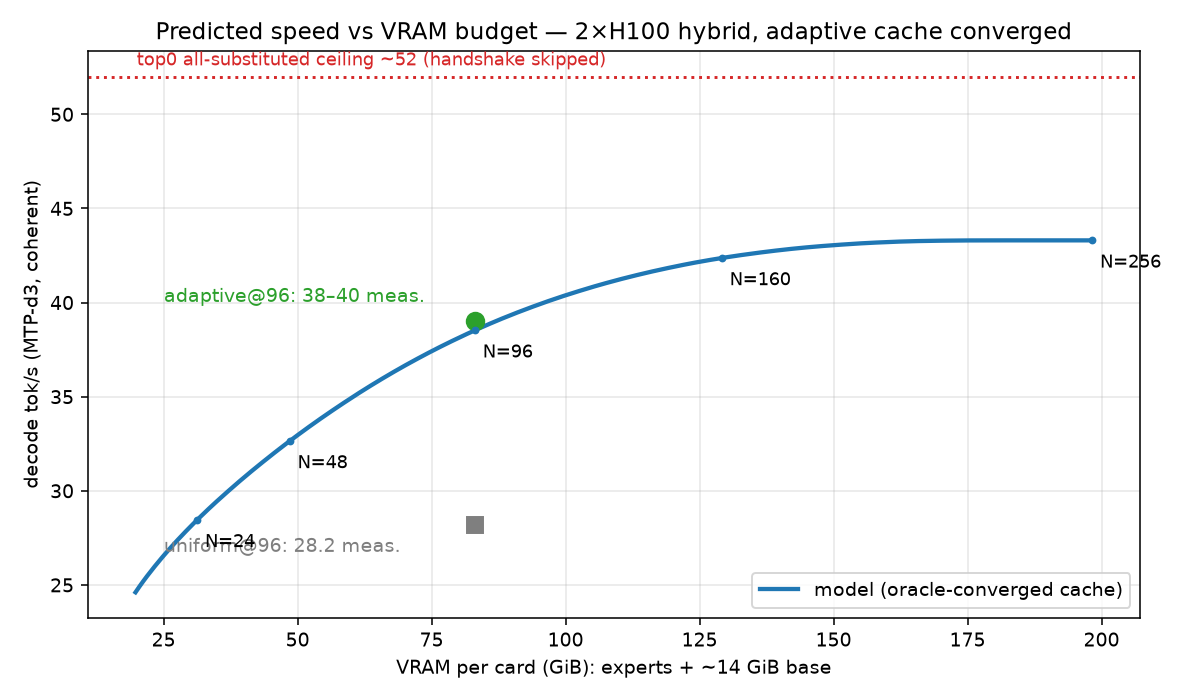
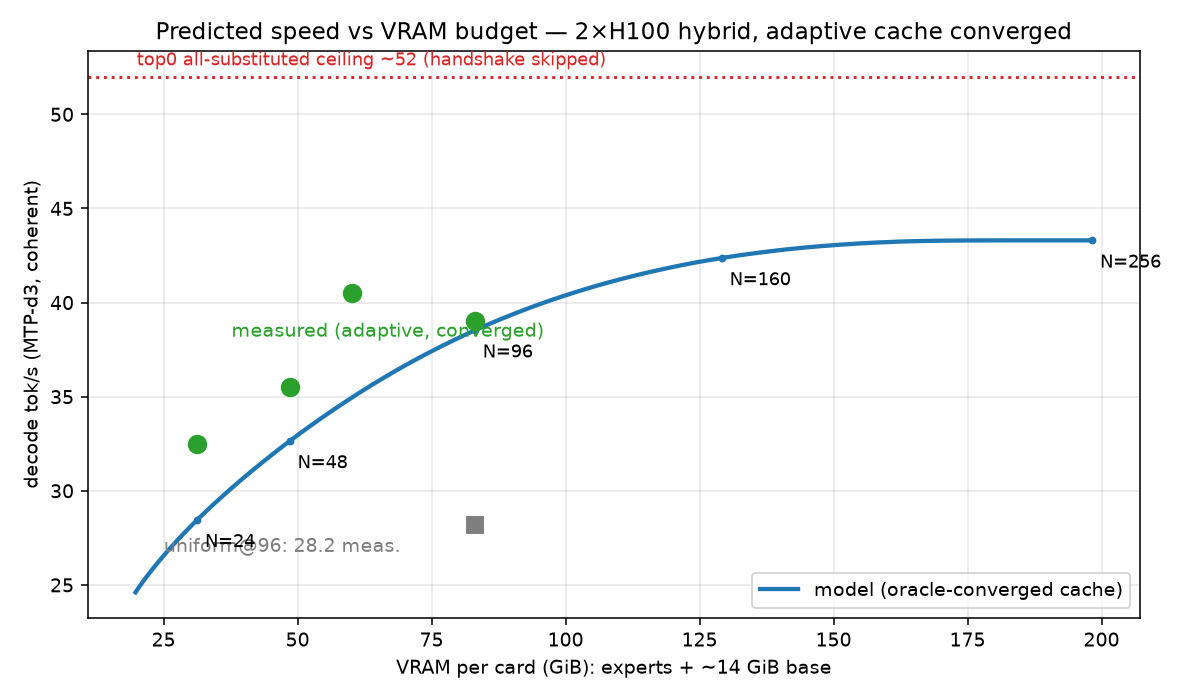
adaptive cache: live-validate VRAM ladder at N=24/48/64/96

Changed region(s): [[0.1244, 0.39, 0.4664, 0.48], [0.1555, 0.6, 0.1866, 0.66], [0.2176, 0.54, 0.2487, 0.57]]

diff --git a/experiments/adaptive_expert_cache/decode_cache/simulate_vram_ladder.py b/experiments/adaptive_expert_cache/decode_cache/simulate_vram_ladder.py
@@ -119,9 +119,12 @@ vramf = Nfull * NUM_LAYERS * MIB_PER_EXPERT_CARD / 1024 + BASE_GIB_CARD
 tpsf = 1.0 / (t0 + t_miss * (1 - covf))
 fig, ax = plt.subplots(figsize=(8.5, 5))
 ax.plot(vramf, tpsf, lw=2.2, color="tab:blue", label="model (oracle-converged cache)")
-meas = [(96, 39.0, "adaptive @96 (measured 38–40)"), (96, 28.2, "uniform @96 (measured)")]
-ax.plot([96 * 78 * 9.45 / 1024 + 14], [39.0], "o", color="tab:green", ms=9)
-ax.annotate("adaptive@96: 38–40 meas.", (96 * 78 * 9.45 / 1024 + 14, 39), xytext=(-160, 10), textcoords="offset points", color="tab:green")
+# measured 2026-07-24, same-boot protocol per N (converge on llm topic, then 3-pass measure)
+MEAS = [(24, 32.5, 0.590), (48, 35.5, 0.787), (64, 40.5, 0.854), (96, 39.0, 0.897)]
+for N, t, _ in MEAS:
+    v = N * 78 * 9.45 / 1024 + 14
+    ax.plot([v], [t], "o", color="tab:green", ms=9, zorder=5)
+ax.annotate("measured (adaptive, converged)", (48 * 78 * 9.45 / 1024 + 14, 35.5), xytext=(-30, 26), textcoords="offset points", color="tab:green")
 ax.plot([96 * 78 * 9.45 / 1024 + 14], [28.2], "s", color="tab:gray", ms=8)
 ax.annotate("uniform@96: 28.2 meas.", (96 * 78 * 9.45 / 1024 + 14, 28.2), xytext=(-160, -14), textcoords="offset points", color="tab:gray")
 ax.axhline(TOP0_MEASURED, color="tab:red", ls=":", lw=1.5)

diff --git a/experiments/adaptive_expert_cache/decode_cache/RESULTS.md b/experiments/adaptive_expert_cache/decode_cache/RESULTS.md
@@ -87,3 +87,23 @@ GiB-expert budget (e.g. 2×A6000-class, N=48) still predicts ~33 tok/s (85% of
 the 2×H100 result), because the adaptive cache always holds the hottest-N.
 Uniform placement at the SAME VRAM gets only ~28 → the cache's advantage GROWS
 as VRAM shrinks.
+
+### Live validation of the VRAM ladder (2026-07-24, same protocol per N)
+
+Rebooted the real server at several GPU_EXPERTS values (uniform cold start,
+12–14 convergence passes on one topic, then 3-pass measure + coherence test):
+
+| N/layer | expert VRAM/card | conv. coverage | measured tok/s (cold → converged) | model pred |
+|---|---|---|---|---|
+| 24 | 17.3 GiB | 0.59 | 27 → **31–34** | 28.5 |
+| 48 | 34.6 GiB | 0.79 | 25 → **34–39** | 32.6 |
+| 64 | 46.1 GiB | 0.85 | 28 → **40–41** | 34.9 |
+| 96 | 69.1 GiB | 0.90 | 28 → **38–40** | 38.5 |
+
+All coherent (N=24 showed longer reasoning chains — mild quality cost of
+heavier substitution). Measured points sit ON or ABOVE the model curve
+because a converged single-topic cache achieves higher coverage than the
+diverse-task capture distribution assumes: **N=64 (46 GiB of experts/card)
+matches N=96** for focused workloads. The simulation curve is the safe
+multi-domain lower bound. Practical floor: even N=24 (~17 GiB experts/card,
+would fit a single 48 GiB card + CPU) holds >30 tok/s once converged.
